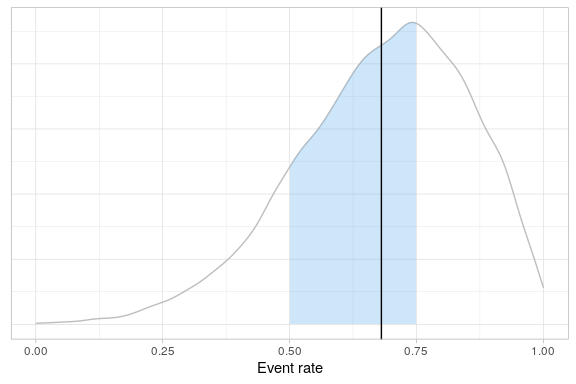
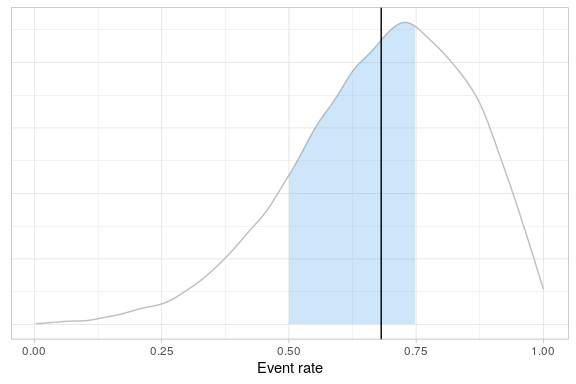
More tests

diff --git a/README.md b/README.md
@@ -242,11 +242,11 @@ quantiles
 #> # A tibble: 1 × 2
 #>     Q05   Q95
 #>   <dbl> <dbl>
-#> 1 0.370 0.931
+#> 1 0.371 0.931
 ```
 
 So, in this specific case, our QTLs translate to observed event rates of
-36.98% and 93.09% respectively.
+37.07% and 93.15% respectively.
 
 Do any sites have observed event rates outside this range?
 
@@ -304,7 +304,7 @@ Upper
 1.000
 </td>
 <td style="text-align:right;">
-0.37
+0.371
 </td>
 <td style="text-align:right;">
 0.931
@@ -324,7 +324,7 @@ Upper
 0.357
 </td>
 <td style="text-align:right;">
-0.37
+0.371
 </td>
 <td style="text-align:right;">
 0.931
@@ -454,7 +454,7 @@ berrySummary %>%
 #> 9     9        6      4            0.667 OK    
 #> 
 #> $qtl
-#> [1] 0.6809388
+#> [1] 0.6813646
 ```
 
 As with all `evaluateXXXXQTL` functions, the return value of
@@ -514,7 +514,7 @@ berrySummary %>%
 #> 9     9        6      4            0.667 OK    
 #> 
 #> $qtl
-#> [1] 0.6985318
+#> [1] 0.6993631
 ```
 
 and 10th centile of the posterior distribution of
@@ -548,7 +548,7 @@ berrySummary %>%
 #> 
 #> $qtl
 #>       10% 
-#> 0.4507998
+#> 0.4465293
 ```
 
 ##### By calculating the probability that the derived metric is in a given range
@@ -590,7 +590,7 @@ berrySummary %>%
     }
   )
 #> $qtl
-#> [1] 0.6809388
+#> [1] 0.6813646
 #> 
 #> $status
 #> [1] "Breach"
